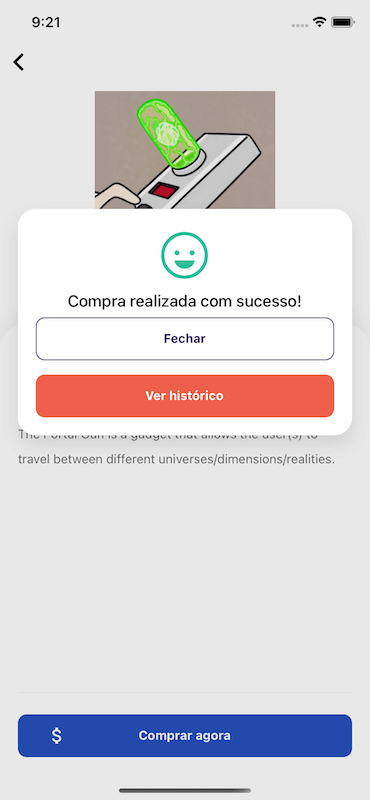
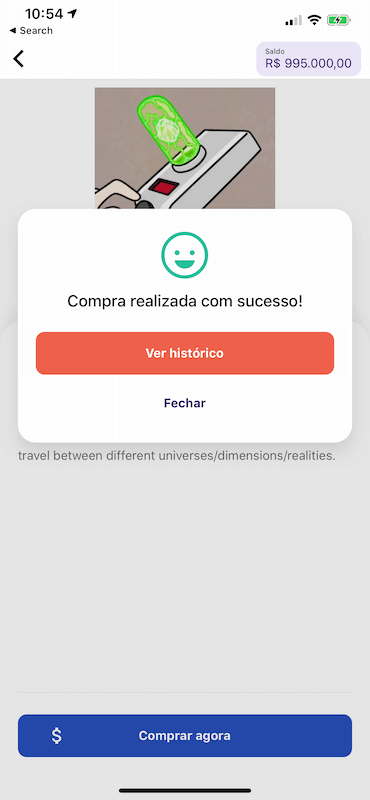
feat: update README

diff --git a/README.md b/README.md
@@ -93,6 +93,15 @@ When you run expo start (or npm start), Expo CLI starts Metro Bundler, which is 
 
 > The installation step-by-step information is taken from the [official documentation](https://docs.expo.dev/get-started/create-a-new-app/#opening-the-app-on-your-phonetablet).
 
+
+## Changelog
+
+### 1.1.0
+
+- Added purchase confirmation modal. 
+### 1.0.0
+
+
 ## Screenshots
 ### **Wallet**
 
@@ -105,6 +114,14 @@ When you run expo start (or npm start), Expo CLI starts Metro Bundler, which is 
 
 <span style="border: 1px solid #F4F4F4; ">
   <img src="./screenshots/offers.png" alt="Logo" height=800>  
+</span>
+<br />
+
+
+### **Offer purchase confirmation**
+
+<span style="border: 1px solid #F4F4F4; ">
+  <img src="./screenshots/confirm-transaction.png" alt="Logo" height=800>  
 </span>
 <br />
 
